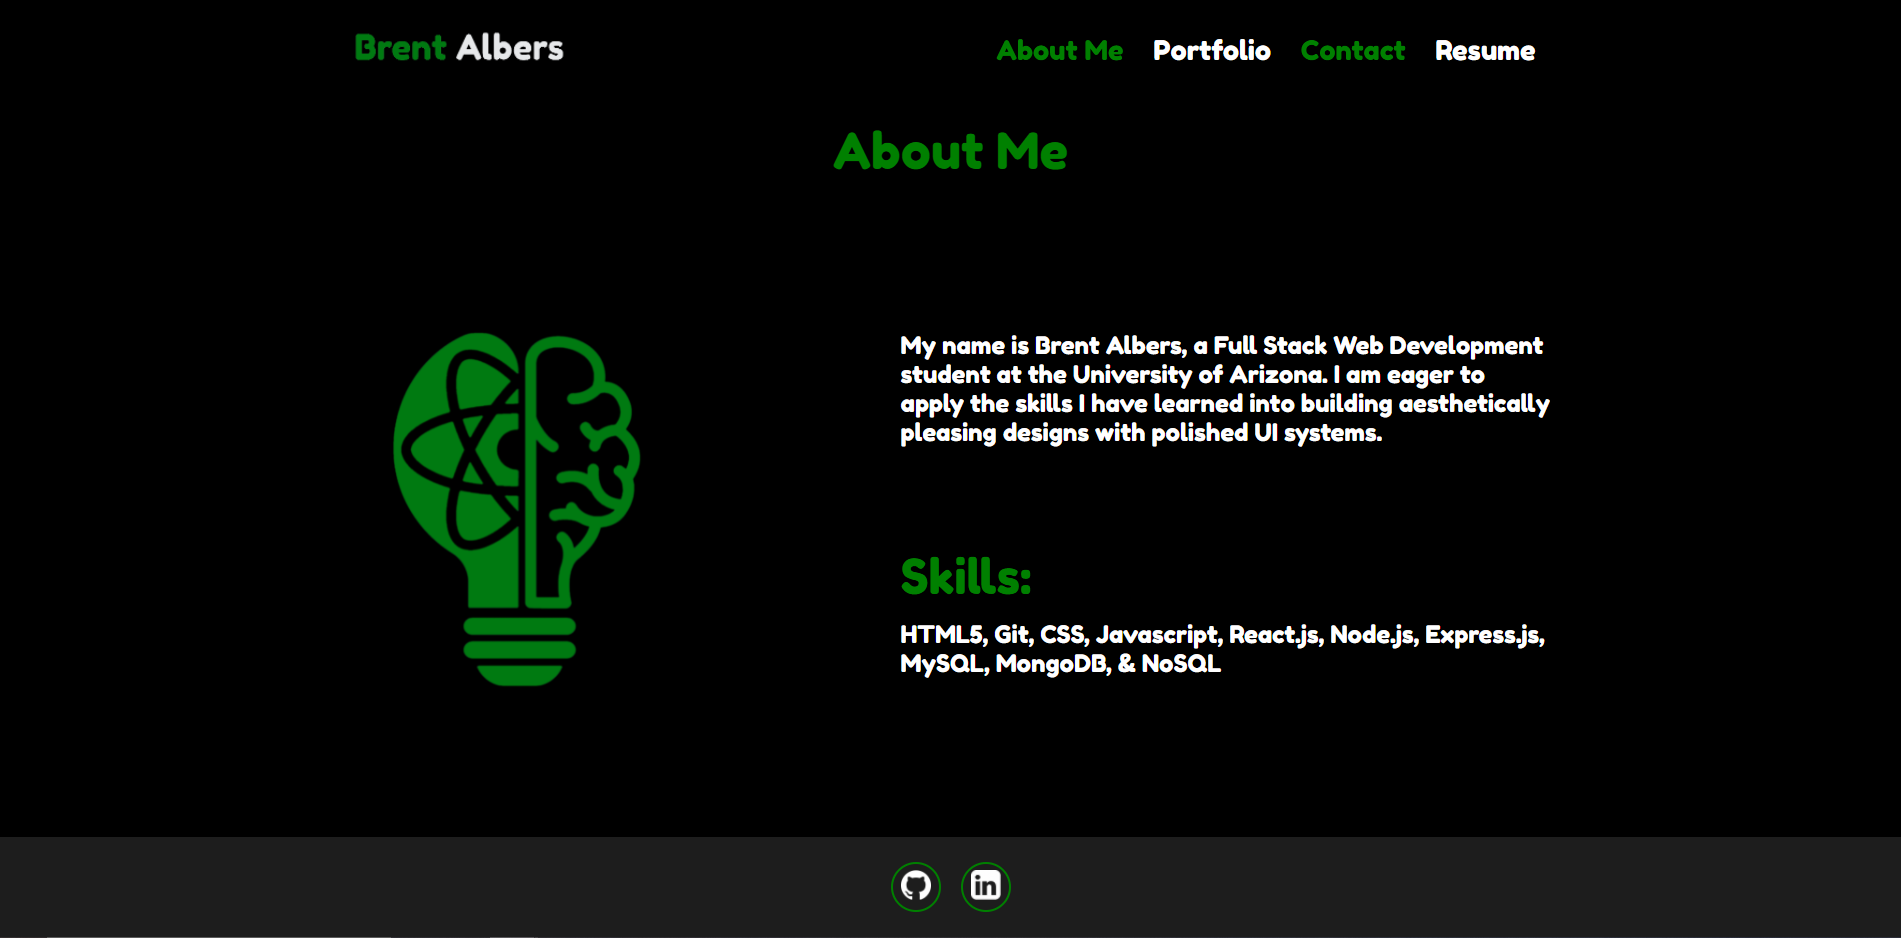
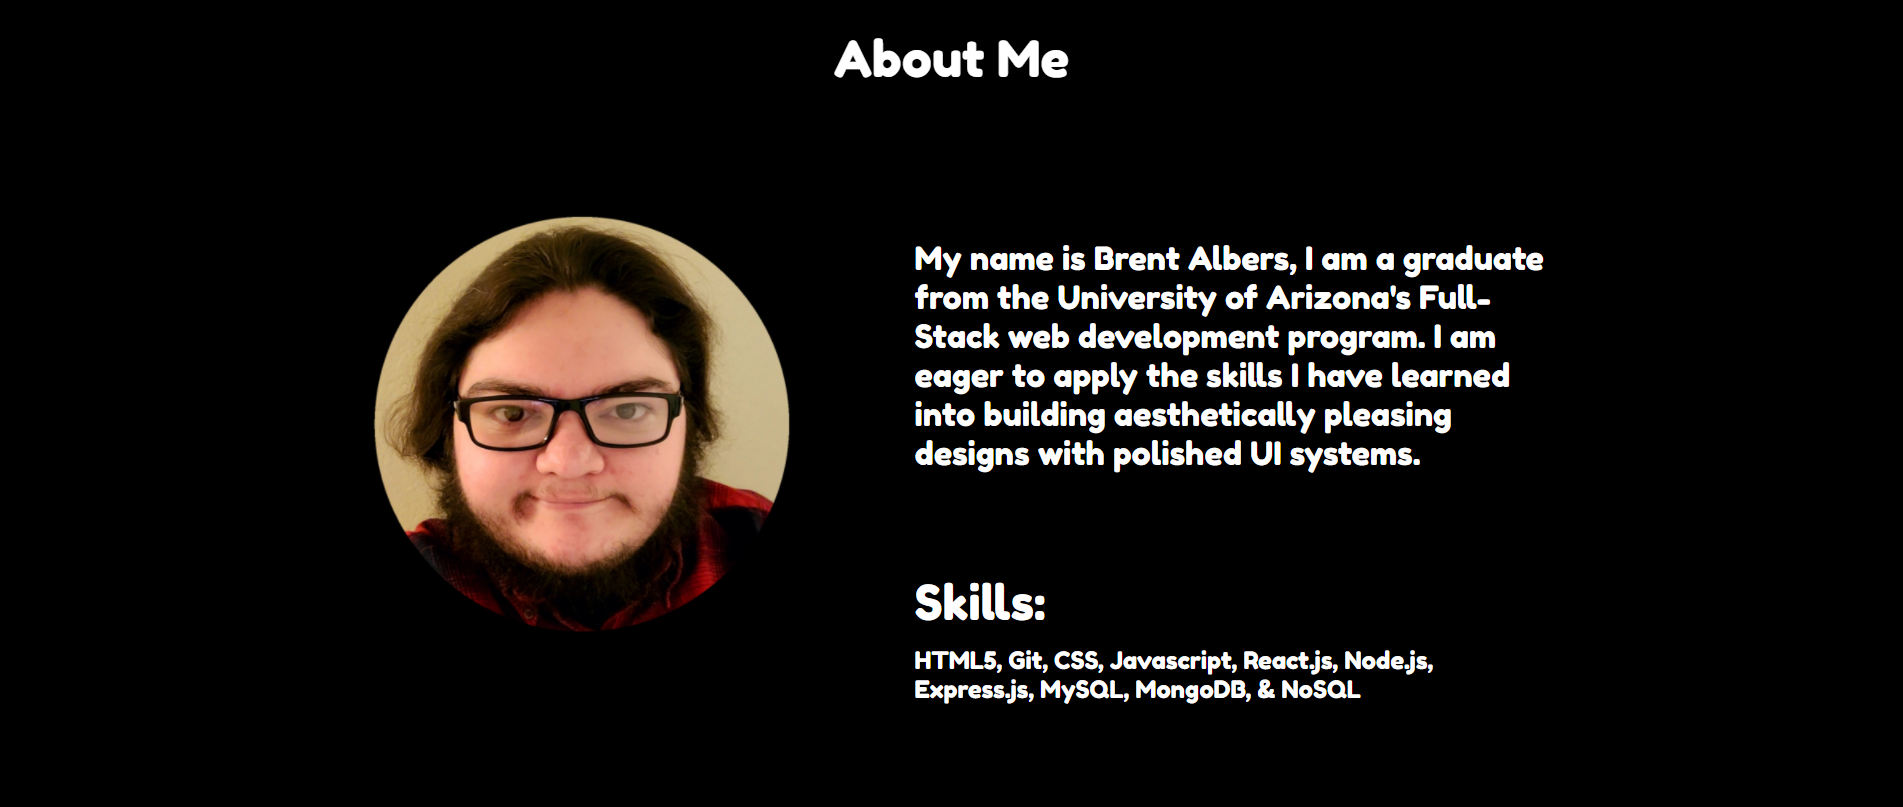
Updated pages and readme, included animations.

diff --git a/src/App.css b/src/App.css
@@ -11,7 +11,7 @@ body {
 .header {
   width: 100%;
   height: 100vh;
-  background: url("/src/components/images/background.png");
+  background: linear-gradient(rgba(0, 0, 0, 0.137), rgba(0, 0, 0, 0.609)), url("/src/components/images/arizona.gif");
   background-repeat: no-repeat;
   background-size: cover;
 }
@@ -32,9 +32,14 @@ body {
   justify-content: space-between;
 }
 
-.navbarName img {
-  width: 220px;
+.navbarName {
+  text-decoration: none;
+  color: white;
   cursor: pointer;
+  font-weight: 500;
+  font-size: 40px;
+  padding: 0 15px;
+  display: flex;
 }
 
 .navbarRight {
@@ -44,7 +49,7 @@ body {
 
 .navbarRight li a {
   text-decoration: none;
-  color: green;
+  color: white;
   cursor: pointer;
   font-weight: 500;
   font-size: 27px;
@@ -62,11 +67,12 @@ body {
 
 .row {
   display: flex;
+  justify-content: center;
   width: 100%;
 }
 
 .col-6 {
-  width: 50%;
+  width: 75%;
 
 }
 
@@ -83,6 +89,7 @@ body {
 
 .headerDetails {
   display: flex;
+  justify-content: right;
   align-items: center;
   height: 100vh;
   width: 100%;
@@ -92,13 +99,15 @@ body {
 .headerUl {
   list-style-type: none;
   display: flex;
+  justify-content: center;
+  align-items: center;
   margin-bottom: 20px;
 }
 
 .headerUl li {
   width: 50px;
   height: 50px;
-  border: 2px solid green;
+  border: 3px solid green;
   border-radius: 50%;
   display: flex;
   align-items: center;
@@ -112,8 +121,11 @@ body {
 
 .headerSection h1 {
   font-size: 50px;
-  font-weight: 400;
+  font-weight: 300;
   margin-bottom: 20px;
+  padding-left: 15px;
+  padding-right: 15px;
+  text-align: center;
 }
 
 .headerSection p {
@@ -147,27 +159,27 @@ body {
   font-weight: 300;
   font-size: 50px;
   padding-bottom: 100px;
-  color: green;
+  color: white;
 }
 
-.aboutLogo {
-  padding-left: 30px;
+.aboutPhoto {
+  padding-left: 15px;
 }
 
-.aboutLogo img {
-  height: 420px;
+.aboutPhoto img {
+  height: 430px;
 }
 
 .aboutMeInfo {
   color: white;
-  font-size: x-large;
+  font-size: xx-large;
   font-weight: 100;
   padding-top: 30px;
   padding-bottom: 100px;
 }
 
 .aboutMeSkills h2{
-  color: green;
+  color: white;
   font-size: xxx-large;
   font-weight: 300;
   padding-bottom: 15px;
@@ -203,14 +215,13 @@ body {
   font-weight: 100;
   margin-bottom: 100px;
   text-align: center;
-  color: green;
+  color: white;
 }
 
 .project img{
   height: 300px;
   width: 400px;
   border-radius: 20px;
-  border: 3px solid green;
 }
 
 .passwordGenerator {
@@ -241,7 +252,9 @@ body {
 
 .contactForm {
   width: 100%;
-  background: black;
+  background: linear-gradient(rgba(0, 0, 0, 0.137), rgba(0, 0, 0, 0.609)), url("/src/components/images/phoenix.jpg");
+  background-repeat: no-repeat;
+  background-size: cover;
   padding: 100px 0;
 }
 
@@ -254,7 +267,7 @@ body {
   font-weight: 300;
   font-size: 50px;
   padding-bottom: 20px;
-  color: green;
+  color: white;
 }
 
 .contactTopText{
@@ -315,7 +328,6 @@ button {
 .mainFooter {
   width: 100%;
   height: 100px;
-  position:fixed;
   bottom: 0;
   background: rgb(29, 29, 29);
   z-index: 1;
@@ -332,6 +344,7 @@ button {
   width: 100%;
   display: flex;
   justify-content: center;
+  padding-left: 45px;
 }
 
 .footerUl li {

diff --git a/src/components/Homepage.js b/src/components/Homepage.js
@@ -1,7 +1,9 @@
 import React from 'react'
 import GitIcon from '../components/images/Github.png'
 import LinkedIcon from '../components/images/Linkedin.png'
-import ProfilePhoto from '../components/images/1632089247488.png'
+import ProfilePhoto from '../components/images/Profile.png'
+import Typical from 'react-typical'
+
 
 const Homepage = () => {
     return (
@@ -11,6 +13,22 @@ const Homepage = () => {
                     <div className="col-6">
                         <div className="headerDetails">
                             <div className="headerSection">
+                                <h1>
+                                    Hello, My name is Brent Albers <br>
+                                    </br>& I am  
+                                    <Typical
+                                    loop={Infinity}
+                                    wrapper="b"
+                                    steps={[
+                                        ' an Engineer',
+                                        1000,
+                                        ' a Designer',
+                                        1000,
+                                        ' a Full-Stack Web Developer',
+                                        6000
+                                    ]}
+                                    />
+                                </h1>
                                 <ul className="headerUl">
                                     <li>
                                         <a href="https://github.com/BA1bers" target="_blank" rel="noopener noreferrer">
@@ -23,18 +41,7 @@ const Homepage = () => {
                                         </a>
                                     </li>
                                 </ul>
-                                <h1>
-                                    Hello there! My name is Brent Albers
-                                </h1>
-                                <p>
-                                    I'm a full-stack web developer
-                                </p>
                             </div>
-                        </div>
-                    </div>
-                    <div className="col-6">
-                        <div className="profileImg">
-                            <img src={ProfilePhoto} alt="profile" />
                         </div>
                     </div>
                 </div>

diff --git a/src/components/About.js b/src/components/About.js
@@ -1,5 +1,5 @@
 import React from 'react'
-import MyReactLogo from '../components/images/MyReactLogo.png'
+import MyPhoto from '../components/images/Profile.png'
 
 const About = () => {
     const [header] = React.useState({subHeader: "About Me"});
@@ -11,13 +11,13 @@ const About = () => {
                 </div>
                 <div className="row">
                     <div className="col-7">
-                        <div className="aboutLogo">
-                            <img src={MyReactLogo} alt="myreactlogo" />
+                        <div className="aboutPhoto">
+                            <img src={MyPhoto} alt="myPhoto" />
                         </div>
                     </div>
                     <div className="col-8">
                         <div className="aboutMeInfo">
-                            <p>My name is Brent Albers, a Full Stack Web Development student at the University of Arizona. I am eager to apply the skills I have learned into building aesthetically pleasing designs with polished UI systems.</p>
+                            <p>My name is Brent Albers, I am a graduate from the University of Arizona's Full-Stack web development program. I am eager to apply the skills I have learned into building aesthetically pleasing designs with polished UI systems.</p>
                         </div>
                         <div className="aboutMeSkills">
                             <h2>Skills:</h2>

diff --git a/src/components/Portfolio.js b/src/components/Portfolio.js
@@ -4,7 +4,7 @@ import CodeQuiz from '../components/images/quizhome.PNG'
 import DayScheduler from '../components/images/workdayscheduler.PNG'
 import WeatherDashboard from '../components/images/weatherdashboard2.PNG'
 import NoteTaker from '../components/images/NoteTaker.PNG'
-import Congo from '../components/images/congo.png'
+import Mernlin from '../components/images/mernlin.jpg'
 import Project from './Project'
 
 const Portfolio = () => {
@@ -24,7 +24,7 @@ const Portfolio = () => {
                 <div className="row">
                     <Project title="weatherDashboard" link="https://ba1bers.github.io/weather-dashboard/" image={WeatherDashboard} />
                     <Project title="noteTaker" link="https://mighty-cove-49648.herokuapp.com/" image={NoteTaker} />
-                    <Project title="congo" link="https://congomedia.herokuapp.com/" image={Congo} />
+                    <Project title="mernlin" link="https://mernlin-pizza.herokuapp.com/Hero" image={Mernlin} />
                 </div>
             </div>
         </div>

diff --git a/src/components/Nav.js b/src/components/Nav.js
@@ -1,5 +1,4 @@
 import React from 'react'
-import Logo from '../components/images/name.png'
 import { Link } from 'react-scroll'
 
 const Nav = () => {
@@ -9,9 +8,7 @@ const Nav = () => {
                 <div className="navbarContainer">
                     <ul className="navbarLeft">
                         <div className="navbarName">
-                            <Link to="homePageHeader" smooth={true} duration={1000}>
-                                <img src={Logo} alt="name" />
-                            </Link>
+                            <Link to="homePageHeader" smooth={true} duration={1000}>Brent Albers</Link>
                         </div>
                     </ul>
                     <ul className="navbarRight">

diff --git a/src/components/Contact.js b/src/components/Contact.js
@@ -23,7 +23,7 @@ const Contact = () => {
             return (false)
         }
     }
-    const [header] = React.useState({ subHeader: "Contact", text: "Want to get in contact with me? Fill out this form and I will get back to you as soon as possible" });
+    const [header] = React.useState({ subHeader: "Contact", text: "Want to get in contact with me? You can reach me at brent.albers@yahoo.com or by filling out this form below" });
     return (
         <div className="contactForm" id="contactForm">
             <div className="container">

diff --git a/src/components/Carousel.js b/src/components/Carousel.js
@@ -1,0 +1,18 @@
+import React, {useState} from 'react'
+import '../App.css'
+//import BtnSlider from './BtnSlider
+import CarouselImg from './CarouselImg'
+
+export default function Carousel() {
+    return (
+        <div className= "container-slider">
+            {CarouselImg.map((obj, index) => {
+                return (
+                    <div>
+                        <img src="" alt="" />
+                    </div>
+                )
+            })}
+        </div>
+    )
+}

diff --git a/README.md b/README.md
@@ -23,10 +23,10 @@ This is an updated version of my portfolio I created early on in my coding bootc
 
 ## Screenshots
 
-![Home](./src/components/images/HomePage.PNG)
-![About Me](./src/components/images/AboutMe.PNG)
-![Portfolio](./src/components/images/Portfolio.PNG)
-![Contact](./src/components/images/Contact.PNG)
+![Home](./src/components/images/homepage.png)
+![About Me](./src/components/images/aboutme.png)
+![Portfolio](./src/components/images/portfolio.png)
+![Contact](./src/components/images/contact.PNG)
 
 ## How to install
 
